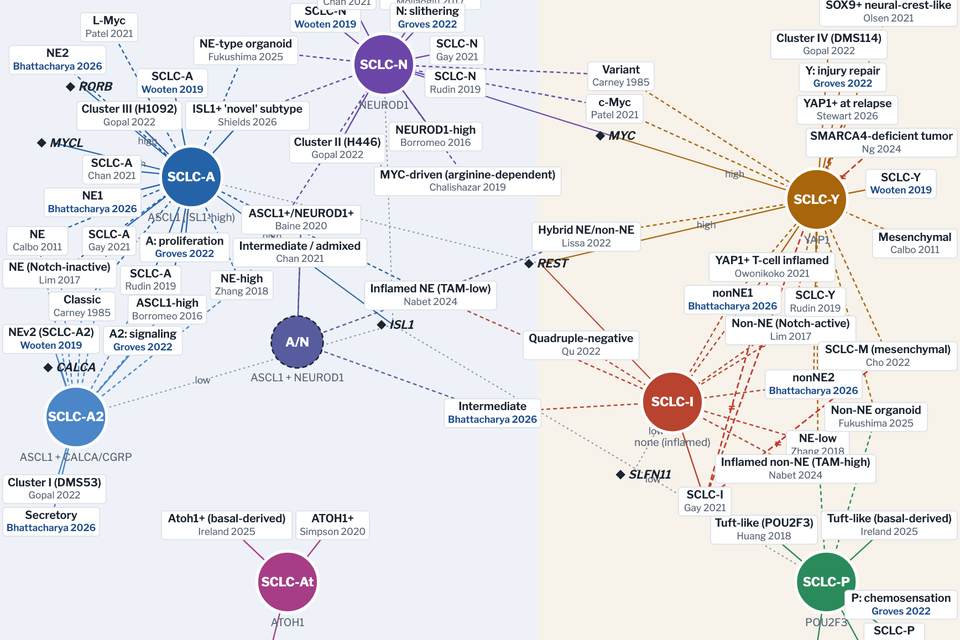
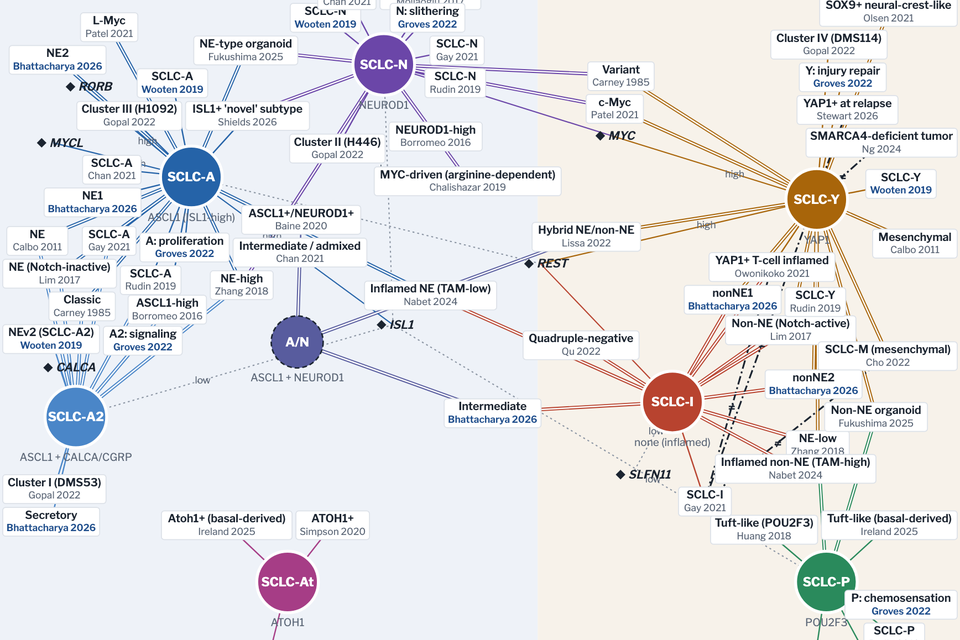
SCLC Subtype Map: clearer line styles
Partial overlap is now a thin double line in the state's color (was dashed,
too close to the dotted 'marker low' line). Disagreements are a dark
dash-dot line instead of red, which read as SCLC-I. Thumbnail refreshed.

diff --git a/apps/sclc-subtype-map/index.html b/apps/sclc-subtype-map/index.html
@@ -11,7 +11,7 @@
 <style>
 :root {
   --bg: #f5f6f8; --surface: #ffffff; --ink: #1b2430; --muted: #5e6979; --line: #dce1e8;
-  --accent: #1f4e8c; --accent-soft: #e4ecf7; --edge: #8b95a3; --conflict: #c0392b;
+  --accent: #1f4e8c; --accent-soft: #e4ecf7; --edge: #8b95a3; --conflict: #1b2430;
   --ne-zone: #eef2f8; --nonne-zone: #f7f2ea;
   --font-ui: "Libre Franklin", "Helvetica Neue", Arial, sans-serif;
   --font-mono: "JetBrains Mono", ui-monospace, Menlo, Consolas, monospace;
@@ -19,13 +19,13 @@
 @media (prefers-color-scheme: dark) {
   :root:not([data-theme="light"]) {
     --bg: #11151b; --surface: #181e26; --ink: #e5e9ef; --muted: #98a3b3; --line: #2a3340;
-    --accent: #84b3ee; --accent-soft: #1d2b3e; --edge: #6b7686; --conflict: #ef6f5e;
+    --accent: #84b3ee; --accent-soft: #1d2b3e; --edge: #6b7686; --conflict: #e5e9ef;
     --ne-zone: #151c27; --nonne-zone: #1c1a17; color-scheme: dark;
   }
 }
 :root[data-theme="dark"] {
   --bg: #11151b; --surface: #181e26; --ink: #e5e9ef; --muted: #98a3b3; --line: #2a3340;
-  --accent: #84b3ee; --accent-soft: #1d2b3e; --edge: #6b7686; --conflict: #ef6f5e;
+  --accent: #84b3ee; --accent-soft: #1d2b3e; --edge: #6b7686; --conflict: #e5e9ef;
   --ne-zone: #151c27; --nonne-zone: #1c1a17; color-scheme: dark;
 }
 [hidden] { display: none !important; }
@@ -98,10 +98,11 @@ a { color: var(--accent); }
 .mk path { fill: var(--ink); }
 .node { cursor: pointer; }
 .edge { fill: none; stroke-width: 1.4; }
-.edge.partial { stroke-dasharray: 4 3; }
+.edge.partial { stroke-width: 3.6; }
+.edge.gap { stroke: var(--surface); stroke-width: 1.4; pointer-events: none; }
 .edge.marker { stroke-width: 1.2; }
 .edge.marker.low { stroke-dasharray: 2 3; stroke: var(--edge); }
-.edge.conflict { stroke: var(--conflict); stroke-dasharray: 6 3; stroke-width: 1.6; }
+.edge.conflict { stroke: var(--conflict); stroke-dasharray: 9 3 2 3; stroke-width: 1.8; }
 .edge.trans { stroke: var(--ink); stroke-width: 1.8; opacity: 0.55; }
 .elabel { font-size: 10px; fill: var(--muted); pointer-events: none; }
 .elabel.conflict { fill: var(--conflict); font-weight: 700; font-size: 12px; }
@@ -167,9 +168,9 @@ table.rosetta { border-collapse: collapse; font-size: 13px; min-width: 900px; ba
     <svg id="net" viewBox="0 0 1000 780" role="img" aria-label="Network of SCLC subtype labels linked to canonical states"></svg>
     <div class="legend">
       <span><svg width="26" height="8"><line x1="0" y1="4" x2="26" y2="4" stroke="var(--edge)" stroke-width="1.6"/></svg>same state</span>
-      <span><svg width="26" height="8"><line x1="0" y1="4" x2="26" y2="4" stroke="var(--edge)" stroke-width="1.6" stroke-dasharray="4 3"/></svg>partial overlap</span>
+      <span><svg width="26" height="8"><line x1="0" y1="4" x2="26" y2="4" stroke="var(--edge)" stroke-width="3.6"/><line x1="0" y1="4" x2="26" y2="4" stroke="var(--surface)" stroke-width="1.4"/></svg>partial overlap</span>
       <span><svg width="26" height="8"><line x1="0" y1="4" x2="26" y2="4" stroke="var(--edge)" stroke-width="1.4" stroke-dasharray="2 3"/></svg>marker low</span>
-      <span><svg width="26" height="8"><line x1="0" y1="4" x2="26" y2="4" stroke="var(--conflict)" stroke-width="1.6" stroke-dasharray="6 3"/></svg>disagreement</span>
+      <span><svg width="26" height="8"><line x1="0" y1="4" x2="26" y2="4" stroke="var(--conflict)" stroke-width="1.8" stroke-dasharray="9 3 2 3"/></svg>disagreement (≠)</span>
       <span><svg width="26" height="10"><line x1="0" y1="5" x2="20" y2="5" stroke="var(--ink)" stroke-width="1.8" opacity="0.6"/><path d="M19 1 L26 5 L19 9 Z" fill="var(--ink)" opacity="0.6"/></svg>transition</span>
       <span><b style="color:var(--accent)">blue year</b> = our papers</span>
       <button id="reset" class="reset">Reset zoom</button>
@@ -257,7 +258,7 @@ table.rosetta { border-collapse: collapse; font-size: 13px; min-width: 900px; ba
   root.append("text").attr("class", "zone-label").attr("x", 14).attr("y", 22).text("NEUROENDOCRINE");
   root.append("text").attr("class", "zone-label").attr("x", W - 14).attr("y", 22).attr("text-anchor", "end").text("NON-NEUROENDOCRINE");
 
-  const gTrans = root.append("g"), gEdges = root.append("g"), gELab = root.append("g"), gNodes = root.append("g");
+  const gTrans = root.append("g"), gEdges = root.append("g"), gGap = root.append("g"), gELab = root.append("g"), gNodes = root.append("g");
 
   const edgeSel = gEdges.selectAll("path").data(links).join("path")
     .attr("class", d => {
@@ -266,6 +267,9 @@ table.rosetta { border-collapse: collapse; font-size: 13px; min-width: 900px; ba
       return "edge " + d.rel;
     })
     .attr("stroke", d => d.kind === "conflict" ? null : (d.kind === "marker" && d.rel === "low") ? null : COLORS[d.target]);
+
+  // partial overlap = two thin parallel lines: a wide colored stroke with a thin surface-colored line on top
+  const gapSel = gGap.selectAll("path").data(links.filter(l => l.kind === "map" && l.rel === "partial")).join("path").attr("class", "edge gap");
 
   const eLabSel = gELab.selectAll("text").data(links.filter(l => l.kind === "conflict" || l.kind === "marker")).join("text")
     .attr("class", d => "elabel" + (d.kind === "conflict" ? " conflict" : ""))
@@ -345,6 +349,7 @@ table.rosetta { border-collapse: collapse; font-size: 13px; min-width: 900px; ba
   function render() {
     nodeSel.attr("transform", d => `translate(${d.x},${d.y})`);
     edgeSel.attr("d", linePath);
+    gapSel.attr("d", linePath);
     eLabSel.attr("x", d => (d.source.x * 0.4 + d.target.x * 0.6)).attr("y", d => (d.source.y * 0.4 + d.target.y * 0.6));
   }
   render();
@@ -408,6 +413,8 @@ table.rosetta { border-collapse: collapse; font-size: 13px; min-width: 900px; ba
       .classed("sel", d => d.id === state.selected)
       .classed("match", d => anyMatch && matches(d) && d.type !== "state");
     edgeSel.attr("display", d => visibleLink(d) ? null : "none")
+      .classed("dim", d => nb ? !(d.source.id === focusId || d.target.id === focusId) : anyMatch ? !(matches(d.source) || matches(d.target)) : false);
+    gapSel.attr("display", d => visibleLink(d) ? null : "none")
       .classed("dim", d => nb ? !(d.source.id === focusId || d.target.id === focusId) : anyMatch ? !(matches(d.source) || matches(d.target)) : false);
     eLabSel.attr("display", d => visibleLink(d) ? null : "none")
       .classed("dim", d => nb ? !(d.source.id === focusId || d.target.id === focusId) : false);
